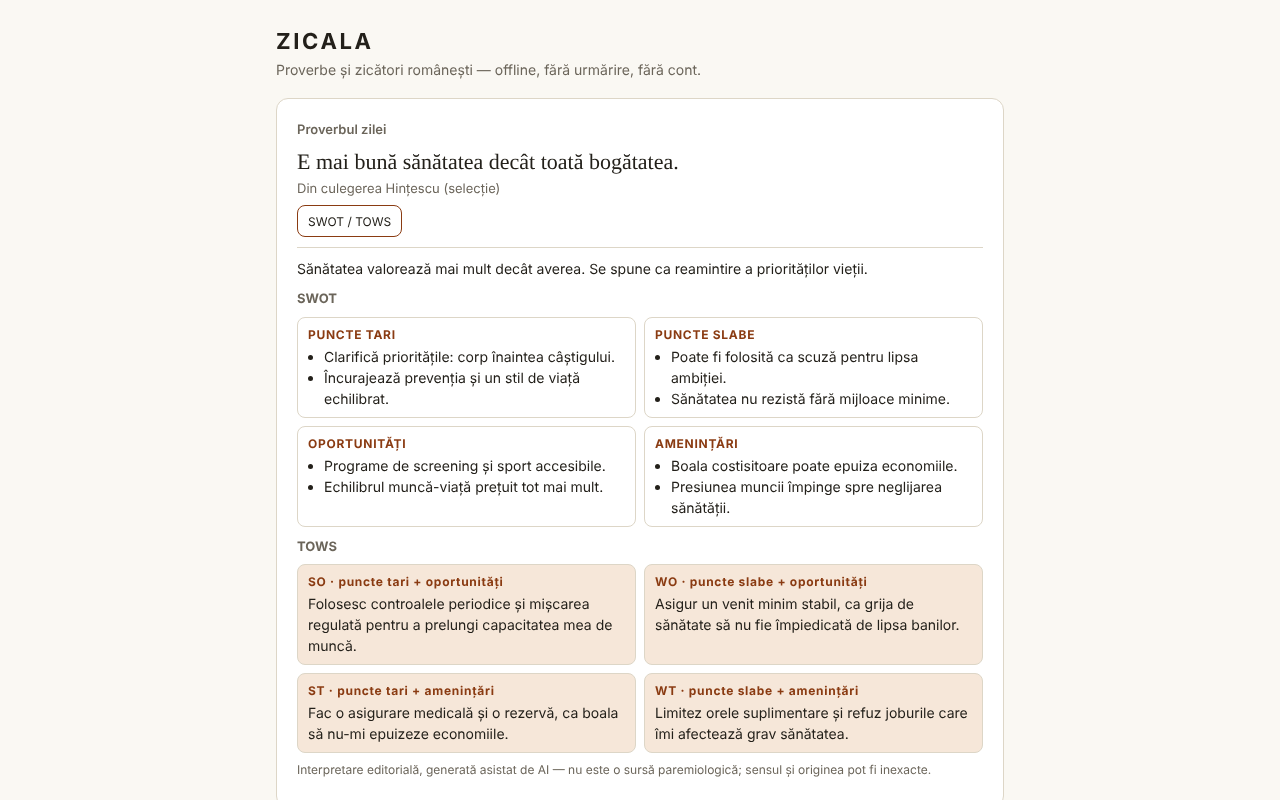
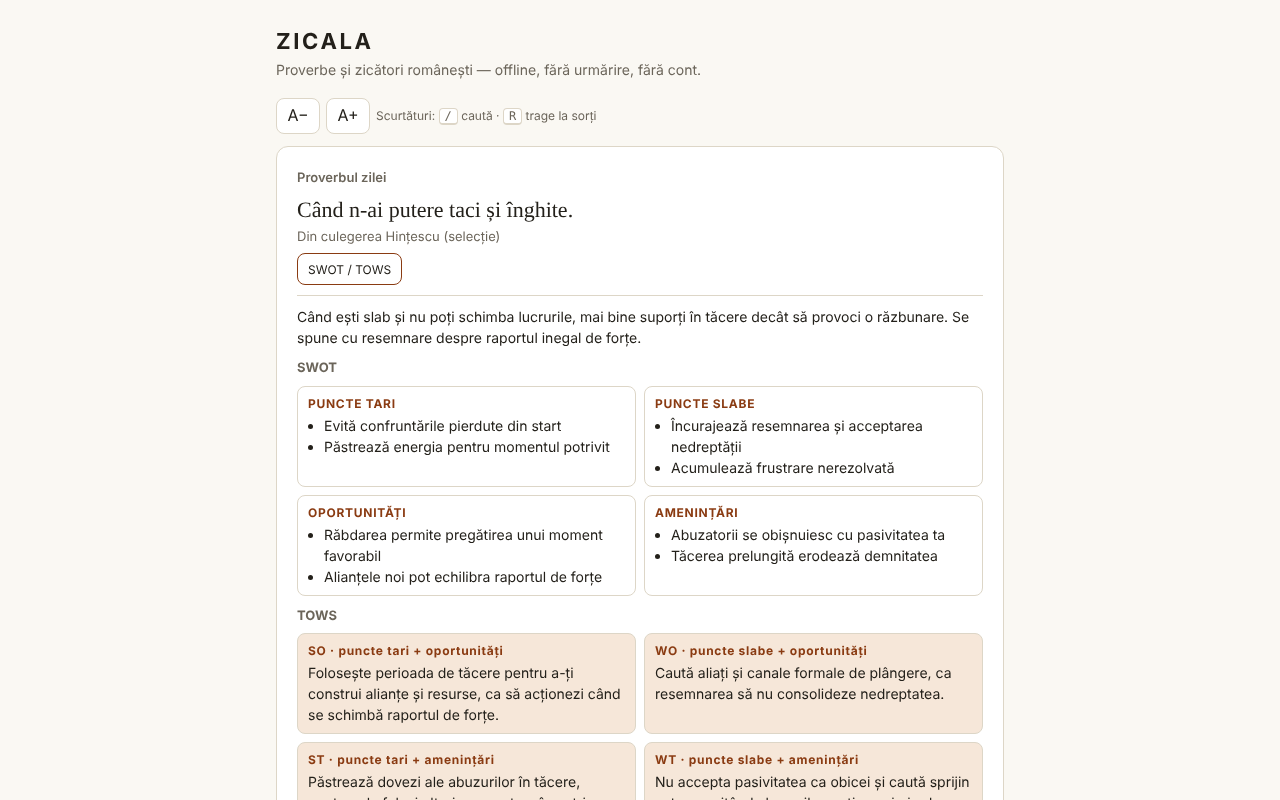
Runda 6 (11 octombrie 2026): reparații și îmbunătățiri
Claude-Session: https://claude.ai/code/session_01D2sCEb3hy3nutYexhUfQFs

Changed region(s): [[0.2188, 0.125, 0.7812, 1.0]]

diff --git a/index.html b/index.html
@@ -3,7 +3,7 @@
 <head>
 <meta charset="utf-8">
 <meta name="viewport" content="width=device-width,initial-scale=1">
-<meta http-equiv="Content-Security-Policy" content="default-src 'none'; script-src 'unsafe-inline'; style-src 'unsafe-inline'; img-src data:; base-uri 'none'; form-action 'none'">
+<meta http-equiv="Content-Security-Policy" content="default-src 'none'; script-src 'sha256-HWGwGJ2sJs0MyidGXN8RncOQiV2jBDsdHitYeM6zXN4='; style-src 'unsafe-inline'; img-src data:; base-uri 'none'; form-action 'none'">
 <meta name="description" content="ZICALA: 550 de proverbe și zicători românești, căutare fără diacritice, proverbul zilei, tras la sorți, favorite. Fără cont, fără urmărire, offline.">
 <meta name="color-scheme" content="light dark">
 <meta property="og:title" content="ZICALA — proverbe românești">
@@ -14,21 +14,21 @@
 :root{--bg:#faf8f3;--card:#fff;--tx:#23201a;--tx2:#6b655a;--bd:#ddd6c7;--ac:#8a3b12;--acbg:#f6e7d9}
 @media(prefers-color-scheme:dark){:root{--bg:#171512;--card:#211e19;--tx:#efe9dc;--tx2:#a39b8a;--bd:#3a352c;--ac:#e8a574;--acbg:#3a2a1d}}
 *{box-sizing:border-box}
-body{margin:0;background:var(--bg);color:var(--tx);font:16px/1.6 system-ui,sans-serif}
+body{margin:0;background:var(--bg);color:var(--tx);font:16px/1.6 system-ui,sans-serif;font-size:calc(16px*var(--z,1))}
 .w{max-width:760px;margin:0 auto;padding:16px}
 h1{font-size:22px;margin:8px 0 0;letter-spacing:.12em}
 .sub{color:var(--tx2);font-size:14px;margin:0 0 16px}
 .card{background:var(--card);border:1px solid var(--bd);border-radius:12px;padding:20px;margin-bottom:12px}
-.big{font:22px/1.5 Georgia,serif;margin:0}
+.big{font:22px/1.5 Georgia,serif;font-size:calc(22px*var(--z,1));margin:0}
 .meta{color:var(--tx2);font-size:13px;margin-top:10px}
 .row{display:flex;gap:8px;flex-wrap:wrap;margin-top:12px}
 button,select,input{font:inherit;color:var(--tx);background:var(--card);border:1px solid var(--bd);border-radius:8px;padding:8px 12px}
 button{cursor:pointer}button:hover{border-color:var(--ac)}
 button.p{background:var(--ac);color:var(--bg);border-color:var(--ac)}
-input[type=search]{flex:1;min-width:160px}
+input[type=search]{flex:1;min-width:160px}select{min-width:0;max-width:100%}
 .item{display:flex;gap:10px;align-items:flex-start;padding:10px 0;border-bottom:1px solid var(--bd)}
 .item:last-child{border:0}
-.item .t{flex:1;font-family:Georgia,serif}
+.item .t{flex:1;font-family:Georgia,serif;font-size:calc(16px*var(--z,1))}
 .item small{display:block;color:var(--tx2);font:12px system-ui}
 .star{border:0;background:none;font-size:20px;padding:0 4px;color:var(--tx2)}
 .star.on{color:var(--ac)}
@@ -42,7 +42,7 @@ input[type=search]{flex:1;min-width:160px}
 .q b{display:block;font-size:12px;letter-spacing:.06em;color:var(--ac);margin-bottom:2px}
 .q ul{margin:0;padding-left:16px}
 .q.t{background:var(--acbg)}
-.pn h4{margin:10px 0 2px;font-size:13px;color:var(--tx2)}
+.pn h3{margin:10px 0 2px;font-size:13px;color:var(--tx2)}
 @media(max-width:520px){.grid{grid-template-columns:1fr}}
 h2.meta{margin:0 0 6px;font-weight:600;font-size:13px}
 :focus-visible{outline:2px solid var(--ac);outline-offset:2px}
@@ -54,6 +54,21 @@ h2.meta{margin:0 0 6px;font-weight:600;font-size:13px}
 details{margin-top:8px}summary{cursor:pointer}
 .src li{margin-bottom:4px}
 @media(prefers-reduced-motion:reduce){*{scroll-behavior:auto!important}}
+.zs{display:flex;gap:6px;align-items:center;margin:0 0 12px;flex-wrap:wrap}
+.zs button{min-height:36px;min-width:44px;padding:4px 10px}
+.kb{font-size:12px;color:var(--tx2)}
+kbd{font:12px ui-monospace,monospace;border:1px solid var(--bd);border-bottom-width:2px;border-radius:4px;padding:0 5px;background:var(--card)}
+@media print{
+ :root{--bg:#fff;--card:#fff;--tx:#000;--tx2:#333;--bd:#999;--ac:#000;--acbg:#fff}
+ body{background:#fff;color:#000;font-size:12pt}
+ .w{max-width:none;padding:0}
+ .zs,.kb,noscript,#today,#todaymeta,#bTo,#todayan,.card.hint,.row,input,select,.an,.del,#more,.item .t>button,#msg,.star:not(.on){display:none!important}
+ .card{border:0;padding:0;margin:0}
+ .card:not(#lst){display:none}
+ .item{break-inside:avoid;padding:6px 0}
+ .star{border:0;font-size:12pt;min-width:0;min-height:0;order:-1}
+ h1{font-size:18pt}
+}
 </style>
 </head>
 <body>
@@ -61,6 +76,11 @@ details{margin-top:8px}summary{cursor:pointer}
 <main class="w">
 <h1>ZICALA</h1>
 <p class="sub">Proverbe și zicători românești — offline, fără urmărire, fără cont.</p>
+<div class="zs" role="group" aria-label="Mărimea textului">
+  <button id="zMinus" aria-label="Micșorează textul">A−</button>
+  <button id="zPlus" aria-label="Mărește textul">A+</button>
+  <span class="kb">Scurtături: <kbd>/</kbd> caută · <kbd>R</kbd> trage la sorți</span>
+</div>
 
 <div class="card">
   <h2 class="meta">Proverbul zilei</h2>
@@ -83,11 +103,12 @@ details{margin-top:8px}summary{cursor:pointer}
   <div id="drawan"></div>
 </div>
 
-<div class="card">
+<div class="card" id="lst">
   <div class="row" style="margin:0 0 8px">
     <input type="search" id="q" placeholder="Caută un cuvânt (merge și fără diacritice)…" aria-label="Caută în proverbe" autocomplete="off">
     <select id="cat" aria-label="Categorie"></select>
     <select id="mode" aria-label="Filtru"><option value="all">Toate</option><option value="fav">Favorite</option></select>
+    <button id="bPrint">Tipărește lista</button>
   </div>
   <div class="hint" id="count" role="status" aria-live="polite"></div>
   <div id="list"></div>
@@ -698,7 +719,7 @@ var MINE='Adăugate de mine',ALLC='Toate categoriile',PAGE=60;
 function esc(s){return String(s).replace(/[&<>"']/g,function(c){return{'&':'&amp;','<':'&lt;','>':'&gt;','"':'&quot;',"'":'&#39;'}[c]})}
 function norm(s){return String(s).toLowerCase().normalize('NFD').replace(/[̀-ͯ]/g,'').replace(/[^a-z0-9]+/g,' ').trim()}
 function li(a){return '<ul>'+a.map(function(x){return '<li>'+esc(x)+'</li>'}).join('')+'</ul>'}
-function panel(t){var a=AN[t];if(!a)return '<div class="pn"><p class="hint">Fără analiză pentru acest proverb.</p></div>';return '<div class="pn"><p>'+esc(a[0])+'</p><h4>SWOT</h4><div class="grid"><div class="q"><b>PUNCTE TARI</b>'+li(a[1])+'</div><div class="q"><b>PUNCTE SLABE</b>'+li(a[2])+'</div><div class="q"><b>OPORTUNITĂȚI</b>'+li(a[3])+'</div><div class="q"><b>AMENINȚĂRI</b>'+li(a[4])+'</div></div><h4>TOWS</h4><div class="grid"><div class="q t"><b>SO · puncte tari + oportunități</b>'+esc(a[5])+'</div><div class="q t"><b>WO · puncte slabe + oportunități</b>'+esc(a[6])+'</div><div class="q t"><b>ST · puncte tari + amenințări</b>'+esc(a[7])+'</div><div class="q t"><b>WT · puncte slabe + amenințări</b>'+esc(a[8])+'</div></div><p class="hint ed">Interpretare editorială, generată asistat de AI — nu este o sursă paremiologică; sensul și originea pot fi inexacte.</p></div>'}
+function panel(t){var a=AN[t];if(!a)return '<div class="pn"><p class="hint">Fără analiză pentru acest proverb.</p></div>';return '<div class="pn"><p>'+esc(a[0])+'</p><h3>SWOT</h3><div class="grid"><div class="q"><b>PUNCTE TARI</b>'+li(a[1])+'</div><div class="q"><b>PUNCTE SLABE</b>'+li(a[2])+'</div><div class="q"><b>OPORTUNITĂȚI</b>'+li(a[3])+'</div><div class="q"><b>AMENINȚĂRI</b>'+li(a[4])+'</div></div><h3>TOWS</h3><div class="grid"><div class="q t"><b>SO · puncte tari + oportunități</b>'+esc(a[5])+'</div><div class="q t"><b>WO · puncte slabe + oportunități</b>'+esc(a[6])+'</div><div class="q t"><b>ST · puncte tari + amenințări</b>'+esc(a[7])+'</div><div class="q t"><b>WT · puncte slabe + amenințări</b>'+esc(a[8])+'</div></div><p class="hint ed">Interpretare editorială, generată asistat de AI — nu este o sursă paremiologică; sensul și originea pot fi inexacte.</p></div>'}
 var $=function(i){return document.getElementById(i)};
 var store=(function(){try{localStorage.setItem('z','1');return localStorage}catch(e){return null}})();
 function ld(k){try{var v=JSON.parse(store.getItem(k));return Array.isArray(v)?v.filter(function(x){return typeof x==='string'&&x.length>0&&x.length<=300}):[]}catch(e){return[]}}
@@ -728,12 +749,13 @@ function togglePanel(btn,box,t){var open=!!box.innerHTML;box.innerHTML=open?'':p
 $('bDraw').onclick=function(){$('drawan').innerHTML='';$('bAn').setAttribute('aria-expanded','false');if(!bag.length)refill();cur=bag.pop();showCur()};
 $('bAn').onclick=function(){if(cur)togglePanel($('bAn'),$('drawan'),cur.t)};
 $('bTo').onclick=function(){togglePanel($('bTo'),$('todayan'),$('today').textContent)};
-$('bCopy').onclick=function(){if(!cur)return;var t=cur.t,b=$('bCopy');function ok(){b.textContent='Copiat';setTimeout(function(){b.textContent='Copiază'},1500)}function ko(){$('msg').textContent='Nu am putut copia automat; selectează textul manual.'}
- try{if(navigator.clipboard&&navigator.clipboard.writeText)navigator.clipboard.writeText(t).then(ok,ko);else ko()}catch(e){ko()}};
+function copyTxt(t,ok){function ko(){$('msg').textContent='Nu am putut copia automat; selectează textul manual.'}
+ try{if(navigator.clipboard&&navigator.clipboard.writeText)navigator.clipboard.writeText(t).then(ok,ko);else ko()}catch(e){ko()}}
+$('bCopy').onclick=function(){if(!cur)return;var b=$('bCopy');copyTxt(cur.t,function(){b.textContent='Copiat';setTimeout(function(){b.textContent='Copiază'},1500)})};
 $('bFav').onclick=function(){if(!cur)return;toggle(cur.t);showCur();render()};
 function toggle(t){var i=favs.indexOf(t);if(i>=0)favs.splice(i,1);else favs.push(t);sv('zf',favs)}
 var view=[],shown=PAGE;
-function row(p,i){var on=isFav(p.t);return '<div class="item"><div class="t">'+esc(p.t)+'<small>'+esc(p.c)+'</small><button class="an" data-a="'+i+'" aria-expanded="false">SWOT / TOWS</button>'+(p.c===MINE?'<button class="del" data-del="'+i+'">Șterge</button>':'')+'<div class="anp"></div></div><button class="star'+(on?' on':'')+'" data-s="'+i+'" aria-pressed="'+on+'" aria-label="Favorit: '+esc(p.t)+'">'+(on?'★':'☆')+'</button></div>'}
+function row(p,i){var on=isFav(p.t);return '<div class="item"><div class="t">'+esc(p.t)+'<small>'+esc(p.c)+'</small><button class="an" data-a="'+i+'" aria-expanded="false">SWOT / TOWS</button><button class="an" data-cp="'+i+'" style="margin-left:6px">Copiază</button>'+(p.c===MINE?'<button class="del" data-del="'+i+'">Șterge</button>':'')+'<div class="anp"></div></div><button class="star'+(on?' on':'')+'" data-s="'+i+'" aria-pressed="'+on+'" aria-label="Favorit: '+esc(p.t)+'">'+(on?'★':'☆')+'</button></div>'}
 function render(keep){
  var toks=norm($('q').value).split(' ').filter(Boolean),c=$('cat').value,m=$('mode').value;
  view=ALL.filter(function(p){
@@ -750,7 +772,8 @@ function render(keep){
 }
 $('list').onclick=function(e){
  var t=e.target;if(!t.closest)return;
- var a=t.closest('.an');if(a){var p=view[+a.getAttribute('data-a')];if(p)togglePanel(a,a.parentNode.querySelector('.anp'),p.t);return}
+ var cp=t.closest('[data-cp]');if(cp){var pc=view[+cp.getAttribute('data-cp')];if(pc)copyTxt(pc.t,function(){cp.textContent='Copiat';setTimeout(function(){cp.textContent='Copiază'},1500)});return}
+ var a=t.closest('.an[data-a]');if(a){var p=view[+a.getAttribute('data-a')];if(p)togglePanel(a,a.parentNode.querySelector('.anp'),p.t);return}
  if(t.closest('#more')){var y=window.scrollY;shown+=PAGE;render(true);window.scrollTo(0,y);return}
  var d=t.closest('.del');if(d){var q=view[+d.getAttribute('data-del')];if(q)removeMine(q);return}
  var b=t.closest('.star');if(!b)return;var s=view[+b.getAttribute('data-s')];if(!s)return;toggle(s.t);var y2=window.scrollY;render(true);window.scrollTo(0,y2);showCur()};
@@ -778,6 +801,22 @@ $('bExp').onclick=function(){
  var txt='FAVORITE\n'+favs.join('\n')+'\n\nADĂUGATE DE MINE\n'+mine.join('\n')+'\n';
  var u=URL.createObjectURL(new Blob([txt],{type:'text/plain;charset=utf-8'}));
  var a=document.createElement('a');a.href=u;a.download='zicala-export.txt';document.body.appendChild(a);a.click();a.remove();setTimeout(function(){URL.revokeObjectURL(u)},1000)};
+/* mărime text (A−/A+), memorată local; scurtături; tipărire */
+var ZS=[1,1.15,1.3,1.5],zi=0;
+try{var zv=+store.getItem('zs');if(zv>=0&&zv<ZS.length&&zv%1===0)zi=zv}catch(e){}
+function setZ(){document.documentElement.style.setProperty('--z',ZS[zi]);$('zMinus').disabled=zi===0;$('zPlus').disabled=zi===ZS.length-1;try{store.setItem('zs',zi)}catch(e){}}
+$('zMinus').onclick=function(){if(zi>0){zi--;setZ()}};
+$('zPlus').onclick=function(){if(zi<ZS.length-1){zi++;setZ()}};
+setZ();
+document.addEventListener('keydown',function(e){
+ if(e.ctrlKey||e.metaKey||e.altKey)return;
+ var t=e.target,tg=t&&t.tagName;if(tg==='INPUT'||tg==='SELECT'||tg==='TEXTAREA'||(t&&t.isContentEditable))return;
+ if(e.key==='/'){e.preventDefault();$('q').focus();$('q').select()}
+ else if((e.key==='r'||e.key==='R')&&tg!=='BUTTON'){e.preventDefault();$('bDraw').click()}});
+var prevShown=null;
+window.addEventListener('beforeprint',function(){if(prevShown===null){prevShown=shown;shown=1e9;render(true)}});
+window.addEventListener('afterprint',function(){if(prevShown!==null){shown=prevShown;prevShown=null;render(true)}});
+$('bPrint').onclick=function(){window.print()};
 render();
 </script>
 </body>

diff --git a/README.md b/README.md
@@ -18,6 +18,8 @@ ZICALA este o aplicație offline („fără frontiere”, trade-free): fără co
 - Filtru pe categorie și pe favorite; listă afișată progresiv (60 de rânduri, „Arată încă”).
 - Favorite (★) și proverbe proprii (adăugare/ștergere), salvate local.
 - Export al favoritelor și adăugirilor într-un fișier text.
+- „Copiază” pe fiecare proverb din listă; mărimea textului A− / A+ (4 trepte, memorată local); scurtături de tastatură: `/` pentru căutare, `R` pentru „Trage la sorți” (nu se declanșează când scrii într-un câmp).
+- Tipărire: „Tipărește lista” (sau Ctrl/Cmd+P) tipărește toată lista filtrată curentă (de exemplu doar favoritele), alb-negru, fără butoane.
 - Pentru fiecare proverb, un panou „SWOT / TOWS” (interpretare editorială, vezi mai jos).
 
 ## Manual de utilizare
@@ -28,11 +30,12 @@ ZICALA este o aplicație offline („fără frontiere”, trade-free): fără co
 4. Apasă „SWOT / TOWS” lângă un proverb pentru a deschide sau închide comentariul.
 5. Scrie un proverb în „Adaugă un proverb al tău” și apasă „Adaugă” (sau Enter); „Șterge” apare doar la proverbele tale.
 6. „Exportă favoritele și adăugirile” descarcă `zicala-export.txt`.
+7. „Copiază” copiază un proverb; A− / A+ schimbă mărimea textului; „Tipărește lista” pregătește pagina pentru imprimantă (alege mai întâi „Favorite” pentru a tipări doar favoritele).
 
 ## Confidențialitate și rețea
 
-- Storage: `localStorage` (cheile `zf` pentru favorite, `zm` pentru proverbele adăugate), dacă browserul îl permite; altfel aplicația funcționează, dar nu păstrează datele și te avertizează. Nu se folosesc cookie-uri, `sessionStorage` sau IndexedDB.
-- Rețea: niciun apel extern. Pagina are o politică CSP (`default-src 'none'`) care blochează orice conexiune sau resursă externă. Numele site-urilor din secțiunea „Surse” sunt doar text, nu linkuri.
+- Storage: `localStorage` (cheile `zf` pentru favorite, `zm` pentru proverbele adăugate, `zs` pentru mărimea textului), dacă browserul îl permite; altfel aplicația funcționează, dar nu păstrează datele și te avertizează. Nu se folosesc cookie-uri, `sessionStorage` sau IndexedDB.
+- Rețea: niciun apel extern. Pagina are o politică CSP (`default-src 'none'`, scripturi doar pe bază de hash, fără `'unsafe-inline'` pentru script) care blochează orice conexiune sau resursă externă. Numele site-urilor din secțiunea „Surse” sunt doar text, nu linkuri.
 - Permisiuni ale browserului: niciuna.
 
 ## Limite și avertismente
@@ -53,6 +56,7 @@ Licența nu este încă declarată.
 ## Istoric / Changelog
 
 Ultima actualizare: 11 octombrie 2026 (aplicația nu are număr de versiune și nu afișează date de construire).
+- Nou: „Copiază” pe fiecare rând, A− / A+, scurtături `/` și `R`, „Tipărește lista” cu stil de tipărire. CSP: scriptul este acum permis prin hash în loc de `'unsafe-inline'`. Panourile SWOT/TOWS folosesc `h3` (ordine corectă a titlurilor); lista de categorii nu mai depășește ecranul de 360 px la text mărit. Captura de ecran reîmprospătată.
 - Verificare de rutină: axe-core = 0 violări la 1280 și 360 px, 0 erori JS, fără depășire orizontală; proverbul zilei se calculează din data locală, deci nu necesită actualizare. Fără modificări de cod.
 
 ## Autor
